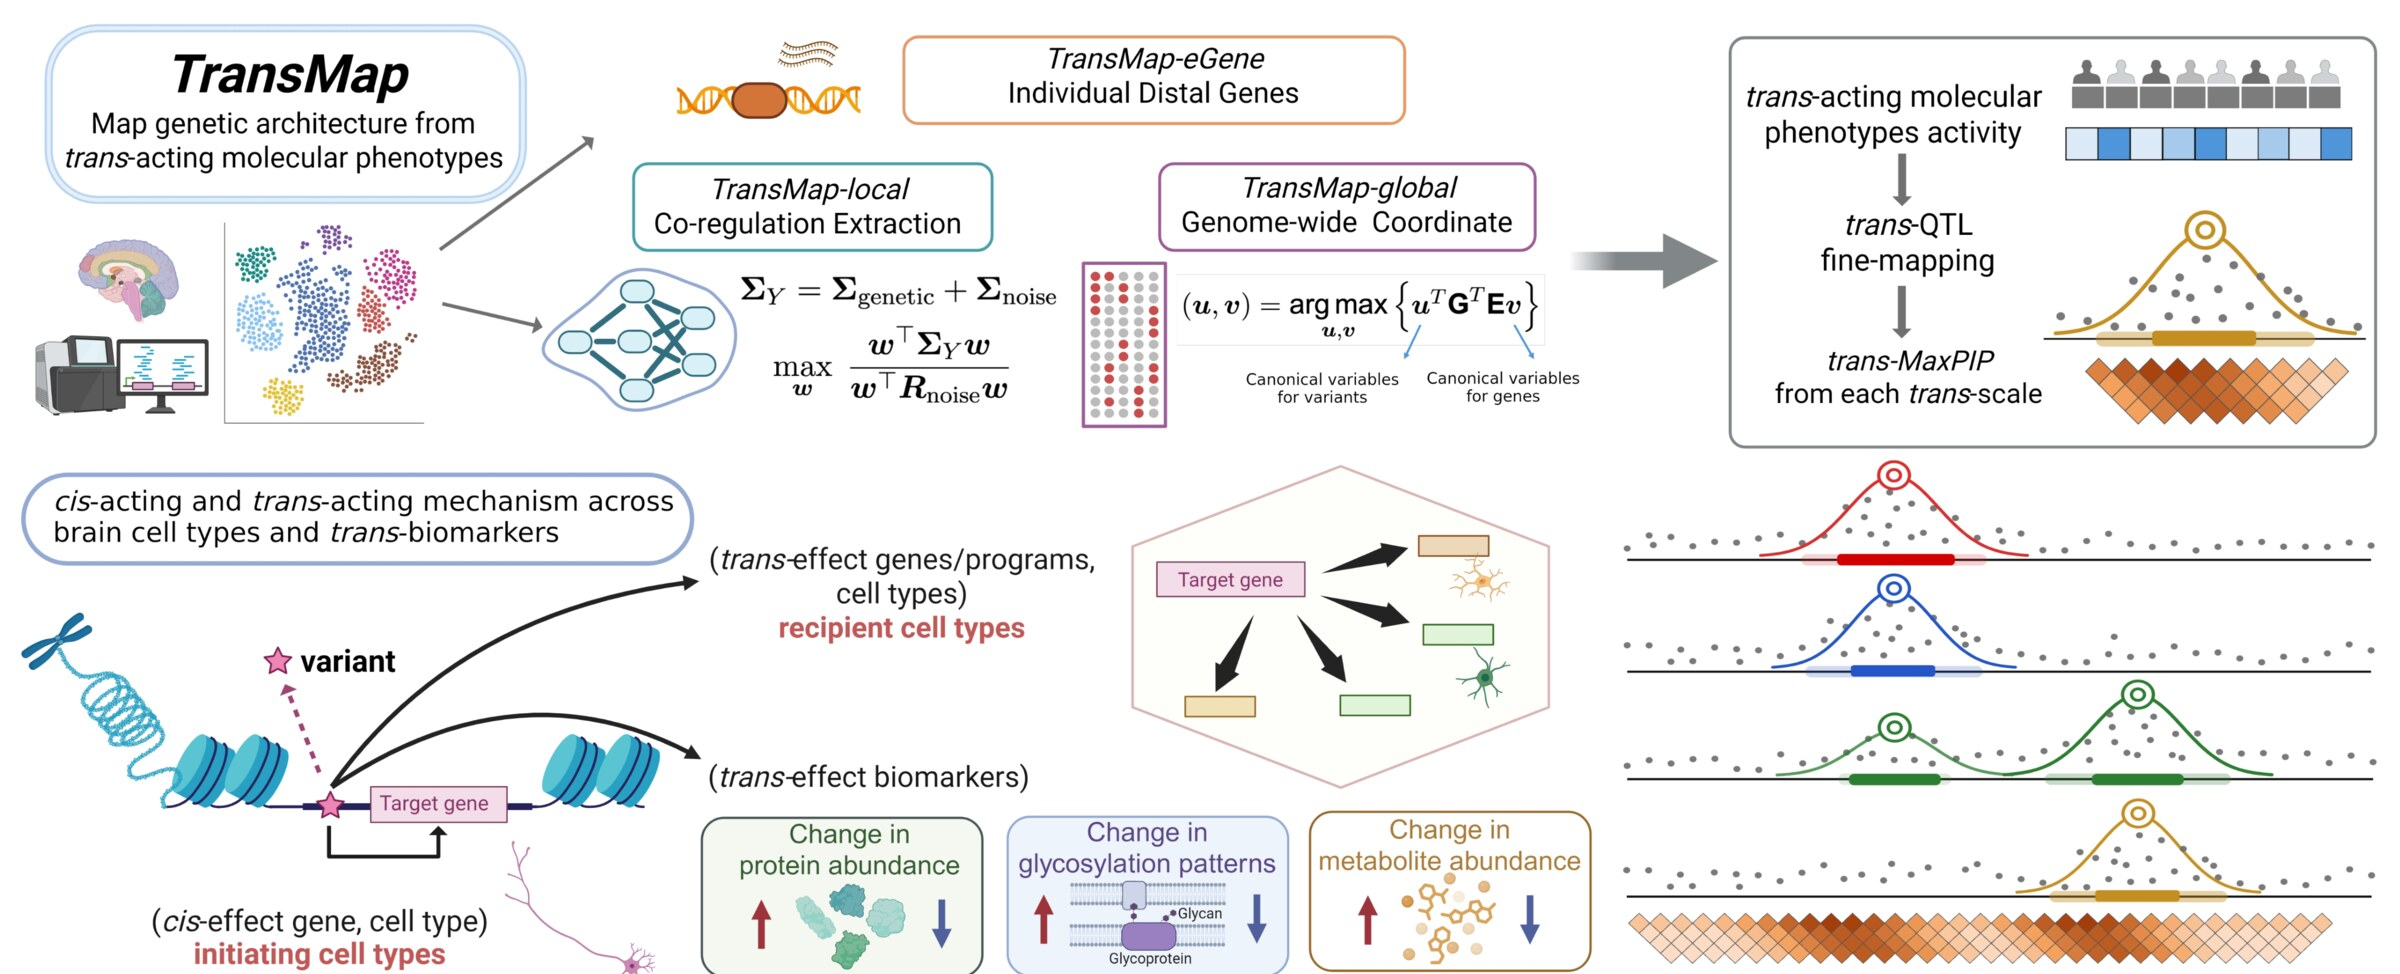
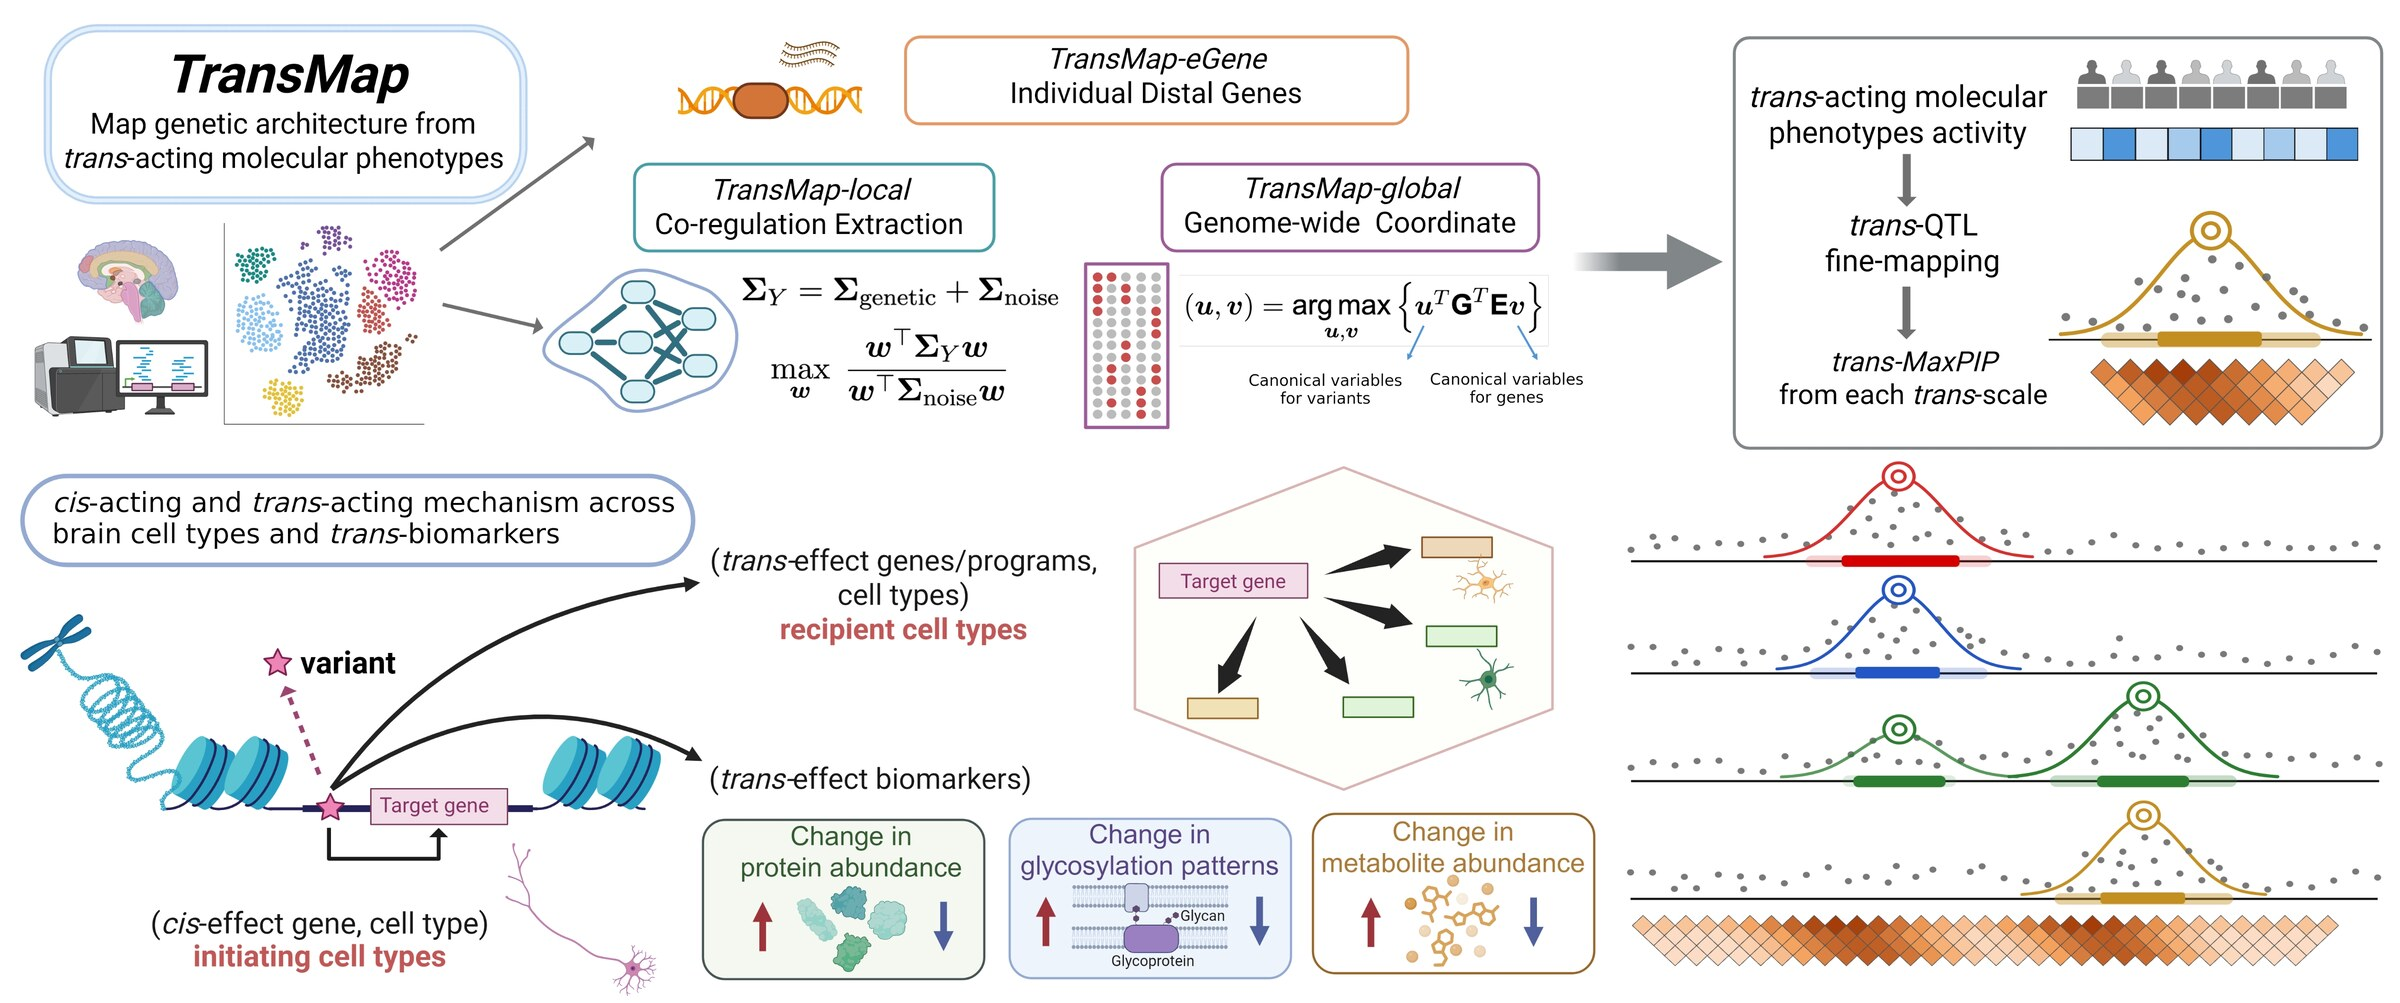
Use the Figure 1a schematic and space the homepage figure
- Replace the figure cropped from Figure1.pdf with the Figure 1a
  schematic file
- Add pkgdown/extra.css: spacing around figures and a bold, centered
  caption

diff --git a/pkgdown/extra.css b/pkgdown/extra.css
@@ -1,0 +1,15 @@
+/* Figures with captions (README header and tutorial figures) */
+.float {
+  margin: 1rem 0 2rem;
+}
+
+.float img {
+  display: block;
+  margin: 0 auto;
+}
+
+.float .figcaption {
+  margin-top: 0.75rem;
+  font-weight: 700;
+  text-align: center;
+}
